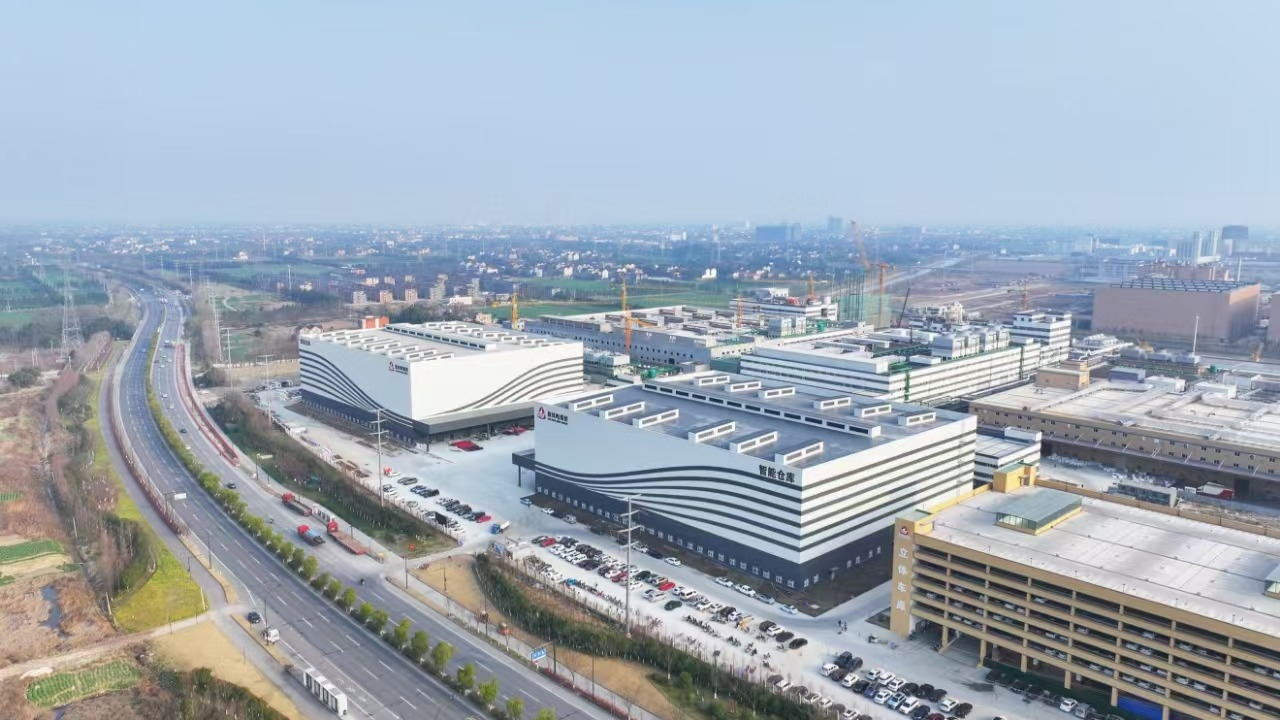
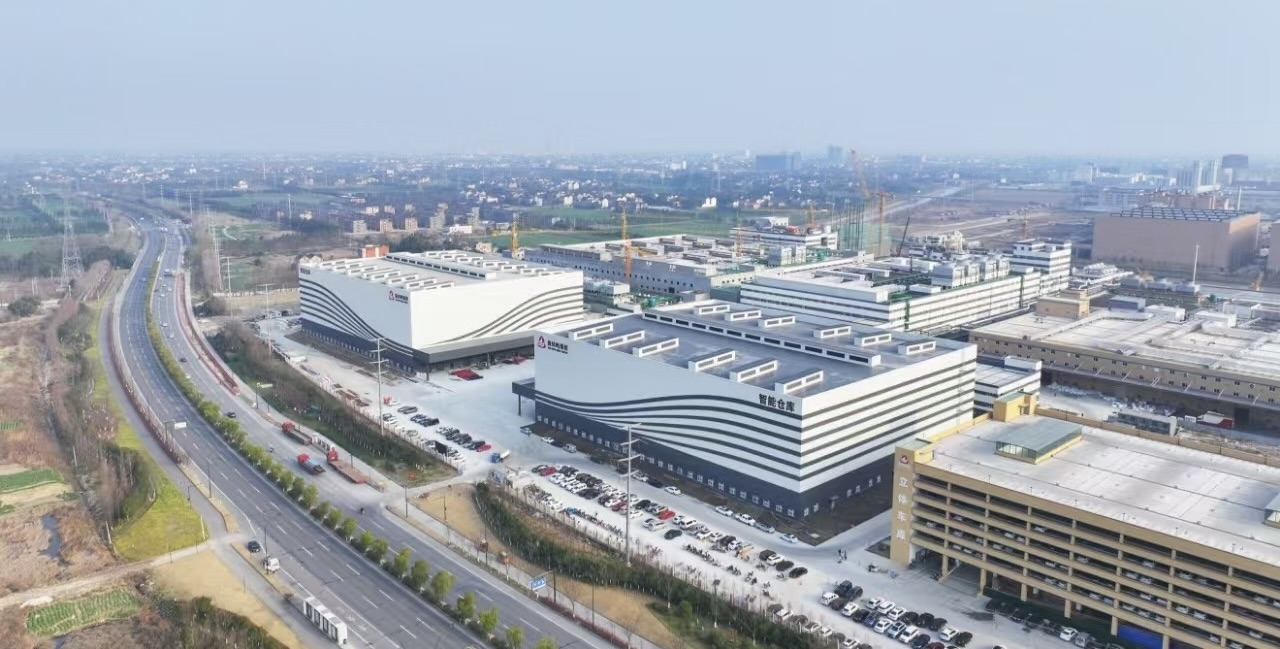
xiugai1

diff --git a/index.html b/index.html
@@ -1,184 +1,170 @@
-<!DOCTYPE html> <html lang="en"> <head> <meta charset="UTF-8"> <meta name="viewport" content="width=device-width, initial-scale=1.0"> <title>Shanyue Textile | Innovative Yarn Solutions</title> <style> :root { --brand-blue: #004098;  /* 品牌主色：蓝色 */
-            --deep-dark: #1a1a1a;   /* 深灰色，用于文字和背景 */
-            --soft-white: #ffffff;  /* 纯白色 */
-            --transition: all 0.3s ease; /* 全局通用的平滑过渡效果 */
+<!DOCTYPE html> <html lang="en"> <head> <meta charset="UTF-8"> <meta name="viewport" content="width=device-width, initial-scale=1.0"> <title>Shanyue Textile | 1800px Wide Layout</title> <style> :root { --brand-blue: #004098; /* 品牌主色：深蓝色 */
+            --deep-dark: #1a1a1a; /* 深色文字色 */
+            --soft-white: #ffffff; /* 纯白色 */
+            --max-page-width: 1800px; /* 核心修改：将最大显示宽度提升至 1800px，适配大尺寸显示器 */
+            --transition: all 0.3s ease; /* 统一的过渡动画时间 */
         }
 
         body { margin: 0; /* 移除浏览器默认外边距 */
-            font-family: 'Helvetica Neue', Helvetica, Arial, sans-serif; /* 设置字体族 */
+            font-family: 'Helvetica Neue', Helvetica, Arial, sans-serif; /* 设置现代感字体 */
             color: var(--deep-dark); /* 应用全局文字颜色 */
-            background-color: var(--soft-white); /* 页面背景设为白色 */
-            -webkit-font-smoothing: antialiased; /* 在 Webkit 浏览器中让字体更平滑 */
+            background-color: #f5f5f5; /* 页面外围背景设为极浅灰，衬托中间容器 */
+            -webkit-font-smoothing: antialiased; /* 字体平滑处理 */
+        }
+
+        /* --- 限制宽度并居中的主容器 --- */
+        .page-container { 
+            max-width: var(--max-page-width); /* 应用 1800px 的宽度限制 */
+            margin: 0 auto; /* 让内容在宽屏显示器中间水平居中 */
+            background-color: var(--soft-white); /* 容器内部背景为纯白色 */
+            box-shadow: 0 0 40px rgba(0,0,0,0.03); /* 容器边缘添加极淡的投影 */
         }
 
         nav { display: flex; /* 开启弹性布局 */
-            justify-content: space-between; /* 左右两端对齐 */
+            justify-content: space-between; /* 左右两端分布对齐 */
             align-items: center; /* 垂直居中对齐 */
-            padding: 1rem 5%; /* 设置内边距：上下1rem，左右5% */
-            background: var(--soft-white); /* 背景为白色 */
-            border-bottom: 1px solid #eee; /* 底部浅灰色细线 */
+            padding: 1.2rem 5%; /* 导航栏上下内边距及左右边距 */
+            background: var(--soft-white); /* 背景白色 */
+            border-bottom: 1px solid #f0f0f0; /* 底部装饰性浅色细线 */
             position: sticky; /* 滚动时粘在顶部 */
-            top: 0; /* 粘在顶部的距离为0 */
-            z-index: 1000; /* 确保导航栏层级最高，不被遮挡 */
+            top: 0; /* 距离顶部 0 */
+            z-index: 1000; /* 确保层级高于图片层 */
         }
 
-        .logo { font-size: 1.2rem; /* 字体大小 */
+        .logo { font-size: 1.3rem; /* Logo 字体大小 */
             font-weight: 800; /* 字体加粗 */
             color: var(--brand-blue); /* 品牌蓝色 */
-            text-transform: uppercase; /* 文字强制转为大写 */
+            text-transform: uppercase; /* 文字大写 */
+            letter-spacing: 1px; /* 字母间距微调 */
         }
 
-        .nav-links { display: flex; /* 链接横向排列 */
-            gap: 2.5rem; /* 每个链接之间的间距 */
+        .nav-links { display: flex; /* 横向排列链接 */
+            gap: 3rem; /* 链接之间的间距 */
         }
 
-        .nav-links a { text-decoration: none; /* 去除下划线 */
+        .nav-links a { text-decoration: none; /* 移除下划线 */
             color: var(--deep-dark); /* 文字颜色 */
-            font-size: 0.9rem; /* 字体大小 */
-            transition: var(--transition); /* 悬停时的平滑过渡 */
+            font-size: 0.95rem; /* 字体大小 */
+            transition: var(--transition); /* 悬停平滑过渡效果 */
         }
 
-        .nav-links a:hover { color: var(--brand-blue); } /* 鼠标悬停时变为品牌蓝 */
+        .nav-links a:hover { color: var(--brand-blue); } /* 鼠标悬停变蓝 */
 
-        .menu-toggle { display: none; /* 电脑端默认隐藏 */
-            flex-direction: column; /* 垂直排列三根线 */
-            gap: 5px; /* 线与线之间的间距 */
-            cursor: pointer; /* 鼠标移动上去变为手型 */
+        .hero { position: relative; /* 为内部文字定位提供基准点 */
+            width: 100%; /* 宽度占满 1800px 容器 */
+            height: 55vh; /* 电脑端高度为屏幕高度的 65% */
+            overflow: hidden; /* 隐藏超出范围的图片内容 */
+            background-color: #000; /* 背景设为黑色 */
         }
 
-        .menu-toggle span { width: 25px; /* 线宽 */
-            height: 3px; /* 线高 */
-            background-color: var(--brand-blue); /* 线条颜色 */
-        }
-
-        .hero { position: relative; /* 为内部绝对定位元素提供基准 */
-            width: 100%; /* 宽度占满全屏 */
-            height: 65vh; /* 电脑端高度为屏幕高度的 65% */
-            overflow: hidden; /* 隐藏超出容器的内容 */
-            background-color: #000; /* 背景设为黑色，防止切换时闪白 */
-        }
-
-        .hero .slide { position: absolute; /* 绝对定位，三张图重叠在一起 */
-            top: 0; /* 顶部对齐 */
-            left: 0; /* 左侧对齐 */
-            width: 100%; /* 宽度铺满 */
-            height: 100%; /* 高度铺满 */
+        /* 自动渐隐渐现图片样式 */
+        .hero .slide { 
+            position: absolute; /* 绝对定位，三张图片重叠在一起 */
+            top: 0; left: 0; /* 钉在容器左上角 */
+            width: 100%; height: 100%; /* 宽高铺满容器 */
             opacity: 0; /* 初始状态完全透明 */
-            object-fit: cover; /* 保持比例裁剪填充 */
-            object-position: center 30%; /* 图片显示中心点偏上 */
-            animation: crossfade 15s infinite; /* 应用渐隐渐现动画，总时长15秒，无限循环 */
+            object-fit: cover; /* 保持比例裁剪填充图片 */
+            object-position: center 30%; /* 图片中心点位置微调 */
+            animation: crossfade 15s infinite; /* 执行 15 秒一轮的渐隐渐现动画 */
         }
 
-        .slide:nth-child(1) { animation-delay: 0s; } /* 第一张图：不延迟，立即开始 */
-        .slide:nth-child(2) { animation-delay: 5s; } /* 第二张图：延迟5秒开始动画 */
-        .slide:nth-child(3) { animation-delay: 10s; } /* 第三张图：延迟10秒开始动画 */
+        /* 设置每张图片的播放延迟（各显示 5 秒） */
+        .slide:nth-child(1) { animation-delay: 0s; } /* 第一张 */
+        .slide:nth-child(2) { animation-delay: 5s; } /* 第二张 */
+        .slide:nth-child(3) { animation-delay: 10s; } /* 第三张 */
 
-        @keyframes crossfade { 0% { opacity: 0; } /* 动画开始：透明 */
-            5% { opacity: 1; } /* 5%进度时：完全显示（渐入完毕） */
-            33% { opacity: 1; } /* 33%进度前：保持显示（持续5秒） */
-            38% { opacity: 0; } /* 38%进度时：再次变为透明（渐出完毕） */
-            100% { opacity: 0; } /* 剩余时间：保持透明，等待下一轮 */
+        @keyframes crossfade { 0% { opacity: 0; } /* 动画开始时透明 */
+            10% { opacity: 1; } /* 10% 进度时完全显示 */
+            33% { opacity: 1; } /* 保持显示到 33% 进度 */
+            43% { opacity: 0; } /* 之后逐渐变透明 */
+            100% { opacity: 0; } /* 剩余时间保持隐藏 */
         }
 
-        .hero-overlay { position: absolute; /* 绝对定位，覆盖在图片之上 */
-            top: 0; /* 顶部对齐 */
-            left: 0; /* 左侧对齐 */
-            width: 100%; /* 宽度铺满 */
-            height: 100%; /* 高度铺满 */
-            background: rgba(0,0,0,0.3); /* 30%透明度的黑色背景，增加文字识别度 */
-            z-index: 5; /* 层级高于图片，低于文字内容 */
+        .hero-overlay { position: absolute; /* 绝对定位覆盖图片 */
+            top: 0; left: 0; /* 铺满整个容器 */
+            width: 100%; height: 100%; /* 宽高铺满 */
+            background: rgba(0,0,0,0.05); /* 极薄的深色蒙版，增加文字可读性 */
+            z-index: 5; /* 确保在图片上方 */
         }
 
-        .hero-content { position: absolute; /* 绝对定位，钉在图片区域 */
-            left: 5%; /* 距离左侧 5% */
-            bottom: 8%; /* 距离底部 8% */
-            color: white; /* 文字设为白色 */
-            text-align: left !important; /* 强制左对齐 */
-            max-width: 800px; /* 限制最大宽度 */
-            z-index: 10; /* 层级最高，确保文字在遮罩和图片上方 */
+        /* --- 文字左下角 + 毛玻璃效果 --- */
+        .hero-content { 
+            position: absolute; /* 绝对定位 */
+            left: 4%; /* 距离左侧 4% 的位置 */
+            bottom: 8%; /* 距离底部 8% 的位置 */
+            text-align: left !important; /* 文字强制左对齐 */
+            z-index: 10; /* 确保在遮罩之上 */
+            padding: 1.5rem 2.5rem; /* 文字内边距 */
+            background: rgba(255, 255, 255, 0.12); /* 毛玻璃背景的基础透明度 */
+            backdrop-filter: blur(15px); /* 背景模糊特效，营造高级质感 */
+            -webkit-backdrop-filter: blur(15px); /* 兼容 Safari 浏览器 */
+            border-radius: 2px; /* 极细微圆角，视觉感更利落 */
+            border: 1px solid rgba(255, 255, 255, 0.1); /* 边框勾勒增强精致感 */
+            max-width: 800px; /* 限制文字内容宽度 */
         }
 
-        .hero-content h1 { font-size: clamp(1.8rem, 5vw, 3.2rem); /* 响应式字体大小 */
-            margin-bottom: 0.5rem; /* 与副标题的间距 */
-            font-weight: 300; /* 设置为细体 */
-            letter-spacing: 2px; /* 字母间距 */
-            text-shadow: 0 2px 10px rgba(0,0,0,0.5); /* 文字投影增强辨识度 */
+        .hero-content p { color: #ffffff; /* 纯白色文字 */
+            font-size: clamp(1.1rem, 2vw, 1.4rem); /* 响应式字号大小 */
+            margin: 0; /* 清除默认外边距 */
+            line-height: 1.6; /* 增加行间距，适合长句阅读 */
+            font-weight: 300; /* 使用细体，模仿高端商社风格 */
+            letter-spacing: 0.5px; /* 字母间距微调 */
+            text-shadow: 0 1px 3px rgba(0,0,0,0.1); /* 极轻阴影确保清晰 */
         }
 
-        .hero-content p { color: #d1dce5; /* 使用设定的冰川灰 */
-            font-size: clamp(1.1rem, 2.5vw, 1.6rem); /* 响应式字体大小 */
-            margin: 0; /* 移除外边距 */
-            line-height: 1.4; /* 设置行高 */
-            font-weight: 400; /* 正常字重 */
-        }
-
-        .section-title { text-align: center; /* 居中对齐 */
-            padding: 4rem 0 2rem; /* 上边距4rem，下边距2rem */
-            font-size: 2rem; /* 字体大小 */
-            color: var(--brand-blue); /* 品牌蓝色 */
+        /* --- 业务网格样式 --- */
+        .section-title { 
+            text-align: center; /* 标题居中对齐 */
+            padding: 5rem 0 3rem; /* 增加标题上下边距，提升呼吸感 */
+            font-size: 2.2rem; /* 标题字号大小 */
+            color: var(--brand-blue); /* 应用品牌蓝颜色 */
+            font-weight: 300; /* 细体标题更显质感 */
         }
 
         .app-grid { display: grid; /* 开启网格布局 */
             grid-template-columns: repeat(4, 1fr); /* 电脑端平分为四列 */
-            gap: 1px; /* 格子之间的细线间距 */
-            background: #eee; /* 底色灰色，作为细线的颜色 */
+            gap: 1px; /* 方块间的极细缝隙 */
+            background: #f0f0f0; /* 线条底色 */
         }
 
-        .app-item { background: var(--soft-white); /* 内部背景为白色 */
-            padding: 4rem 2rem; /* 设置内部填充 */
-            text-align: center; /* 文字居中 */
+        .app-item { background: var(--soft-white); /* 内部背景白色 */
+            padding: 5rem 2rem; /* 增加内填充，使排版更开阔 */
+            text-align: center; /* 文字居中对齐 */
         }
 
-        @media (max-width: 768px) { .menu-toggle { display: flex; } /* 手机端显示菜单按钮 */
-            .nav-links { display: none; /* 初始隐藏 */
-                flex-direction: column; /* 垂直排列 */
-                position: absolute; /* 脱离文档流定位 */
-                top: 100%; /* 在导航栏正下方 */
-                left: 0; /* 左侧对齐 */
-                width: 100%; /* 宽度占满手机屏幕 */
-                background: white; /* 背景设为白色 */
-                padding: 20px 0; /* 上下内边距 */
+        /* --- 移动端适配调整 --- */
+        @media (max-width: 768px) { 
+            .page-container { max-width: 100%; margin: 0; } /* 手机端取消限宽，占满全屏 */
+            .hero { height: 310px; } /* 手机端固定高度 */
+            .hero-content { 
+                left: 15px !important; /* 手机端靠边距离固定 */
+                bottom: 15px !important; /* 手机端离底距离固定 */
+                padding: 1rem; /* 手机端缩小毛玻璃框的大小 */
+                max-width: 85%; /* 增加覆盖比例 */
             }
-            .nav-links.active { display: flex; } /* 点击菜单后显示的样式 */
-            
-            .hero { height: 310px; } /* 手机端图片区域高度固定为 310px（已减少10%） */
-
-            .hero-content { left: 20px !important; /* 距离左侧固定20像素 */
-                bottom: 20px !important; /* 距离底部固定20像素 */
-                padding: 0 !important; /* 移除填充干扰 */
-            }
-            
-            .app-grid { grid-template-columns: 1fr 1fr; /* 变为两行两列 */
-                gap: 0.5px; /* 间距进一步缩小（靠拢效果） */
-            }
-            .app-item { padding: 3rem 1rem; } /* 减少格子内填充，使其更紧凑 */
+            .app-grid { grid-template-columns: 1fr 1fr; gap: 0.5px; } /* 手机端变为 2x2 布局 */
+            .app-item { padding: 3rem 1rem; } /* 手机端内边距缩减 */
         }
 
         footer { background: var(--deep-dark); /* 深色背景 */
-            color: #888; /* 灰色文字 */
-            padding: 4rem 5%; /* 内边距控制 */
-            text-align: center; /* 文字居中 */
+            color: #777; /* 灰色文字色 */
+            padding: 5rem 5%; /* 增加页脚内边距高度 */
+            text-align: center; /* 文字居中对齐 */
         }
     </style> </head>
-<body> <nav> <div class="logo"></div> <div class="menu-toggle" id="mobile-menu"> <span></span><span></span><span></span> </div>
-        <div class="nav-links" id="nav-list"> <a href="#">Products</a><a href="#">Applications</a><a href="#">Sustainability</a><a href="#">Innovation</a><a href="#">Contact</a>
-        </div>
-    </nav>
+<body> <div class="page-container"> <nav> <div class="logo">SHAN YUE TEXTILE</div> <div class="nav-links"> <a href="#">Business</a><a href="#">Applications</a><a href="#">Sustainability</a><a href="#">Contact</a>
+            </div>
+        </nav>
 
-    <section class="hero"> <img src="images/hero2.png" alt="Slide 1" class="slide"> <img src="images/hero1.png" alt="Slide 2" class="slide"> <img src="images/hero3.png" alt="Slide 3" class="slide"> <div class="hero-overlay"> <div class="hero-content"> <h1></h1> <p>25 Years of Excellence<br>in Professional Textile Services</p> </div>
-        </div>
-    </section>
+        <section class="hero"> <img src="images/hero2.png" alt="Slide 1" class="slide"> <img src="images/hero1.png" alt="Slide 2" class="slide"> <img src="images/hero3.png" alt="Slide 3" class="slide"> <div class="hero-overlay"> <div class="hero-content"> <p>25 Years of Excellence in Professional Textile Services.<br>We evolve and transform on a global scale to realize your dreams.</p> </div>
+            </div>
+        </section>
 
-    <div class="section-title">Global Applications</div> <div class="app-grid"> <div class="app-item"><h3>Apparel</h3><p>High-end fashion and performance fibers.</p></div> <div class="app-item"><h3>Home & Interior</h3><p>Durability for modern living spaces.</p></div> <div class="app-item"><h3>Technical</h3><p>Industrial and automotive solutions.</p></div> <div class="app-item"><h3>Eco-Innovation</h3><p>Sustainable and recycled materials.</p></div> </div>
+        <div class="section-title">Global Applications</div> <div class="app-grid"> <div class="app-item"><h3>Apparel</h3><p>High-end fashion and performance fibers.</p></div> <div class="app-item"><h3>Home & Interior</h3><p>Durability for modern living spaces.</p></div> <div class="app-item"><h3>Technical</h3><p>Industrial and automotive solutions.</p></div> <div class="app-item"><h3>Eco-Innovation</h3><p>Sustainable and recycled materials.</p></div> </div>
 
-    <footer> <div style="color:white; margin-bottom:15px; font-weight:bold;">Shaoxing Shanyue Textile Co., Ltd.</div> <p>&copy; 2026 Shanyue Textile. All Rights Reserved.</p> <p>Email: leogao@yarnsvc.com</p> </footer>
+        <footer> <div style="color:white; margin-bottom:15px; font-weight:bold; letter-spacing:1px;">Shaoxing Shanyue Textile Co., Ltd.</div> <p>&copy; 2026 Shanyue Textile. All Rights Reserved.</p> <p>Email: leogao@yarnsvc.com</p> </footer>
 
-    <script> const menuBtn = document.getElementById('mobile-menu'); // 获取菜单按钮元素
-        const navList = document.getElementById('nav-list'); // 获取链接容器元素
-        menuBtn.addEventListener('click', () => { // 监听点击事件
-            navList.classList.toggle('active'); // 切换显示/隐藏菜单的状态
-        });
-    </script> </body>
+    </div> </body>
 </html> ```
 
-想要调整切换速度？只需更改 CSS 中 `@keyframes` 附近的数字即可。下一步是否需要我帮您把下方的四个业务格子也加上一些鼠标悬停时的动画？
+现在宽度已经为您固定在 **1800px** 了。在大屏显示器上，这会比之前的版本看起来更加舒展。还有其他细节需要我为您润色吗？
